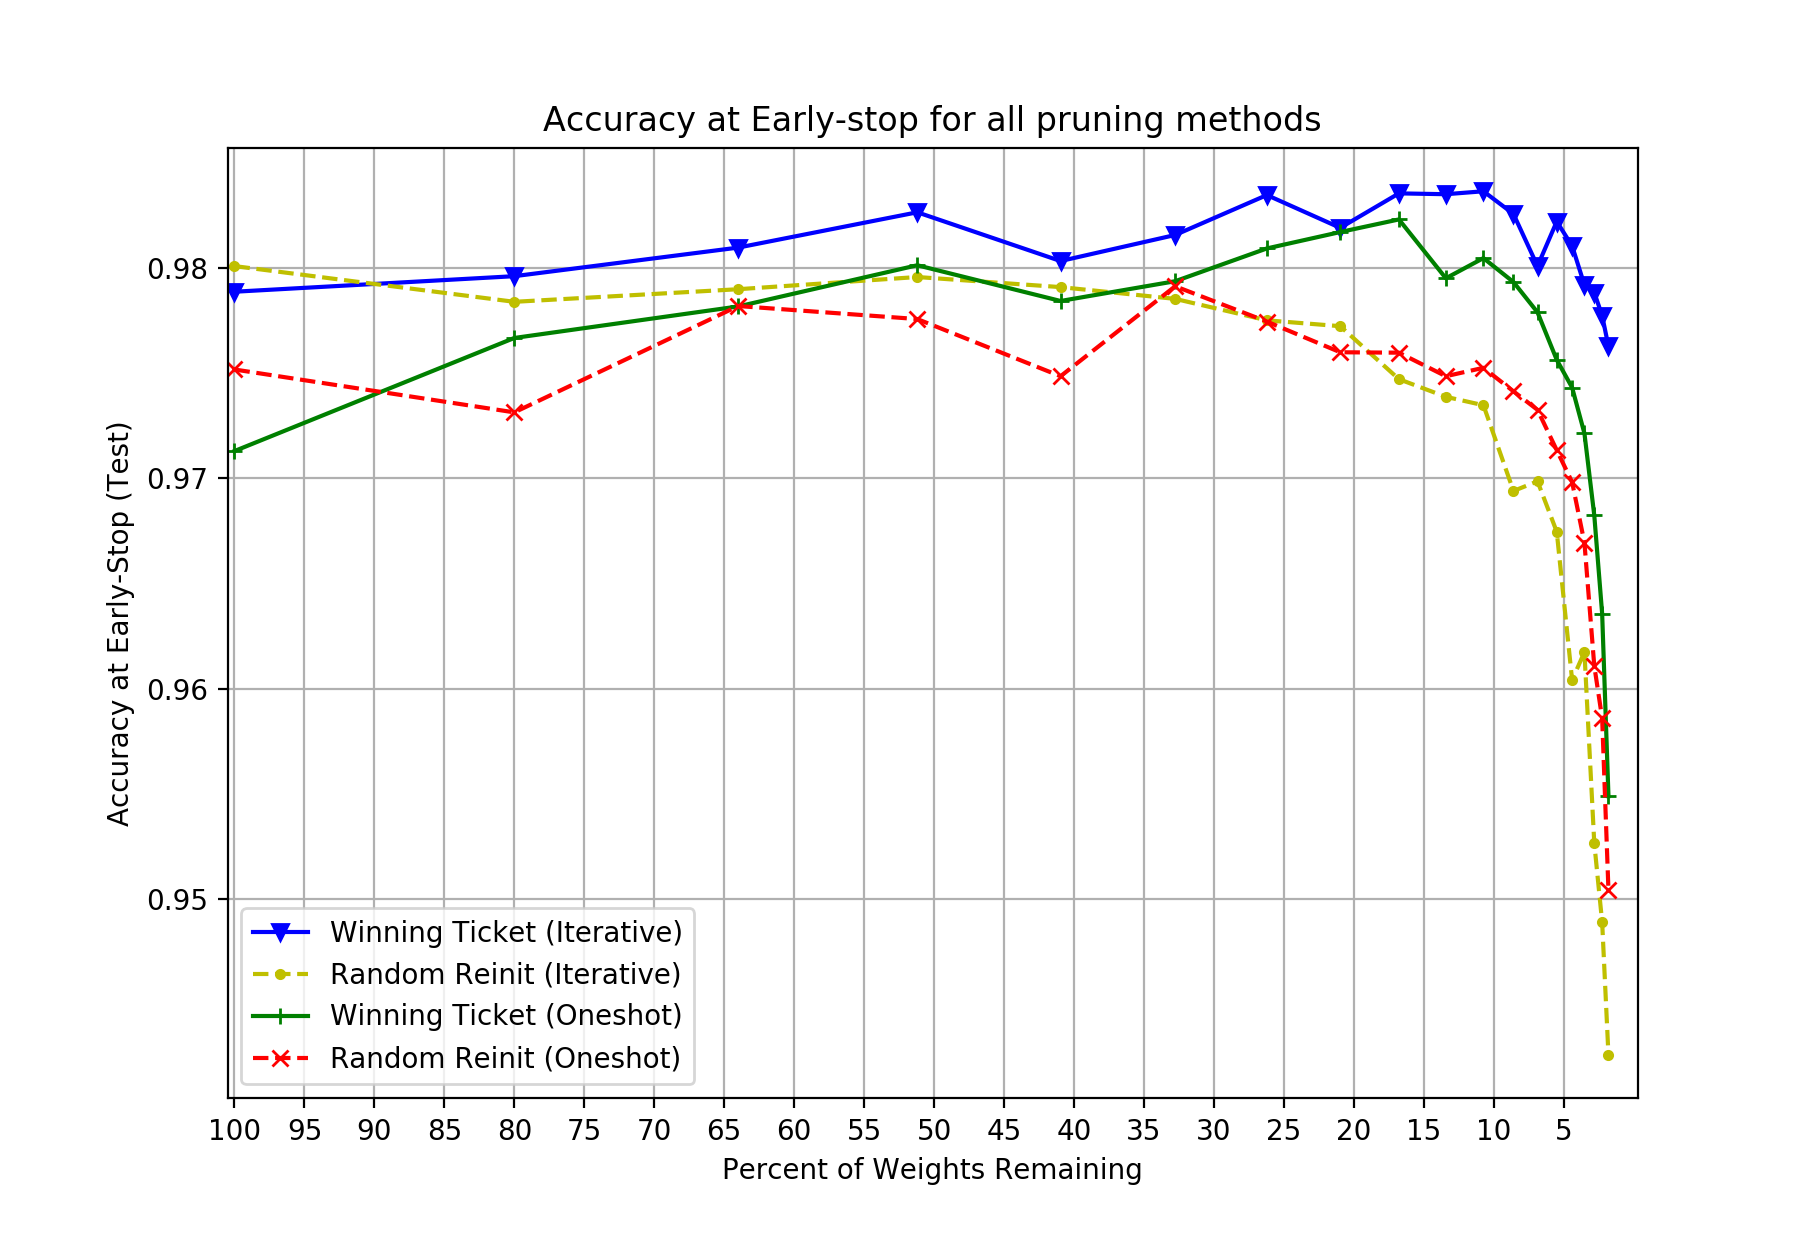
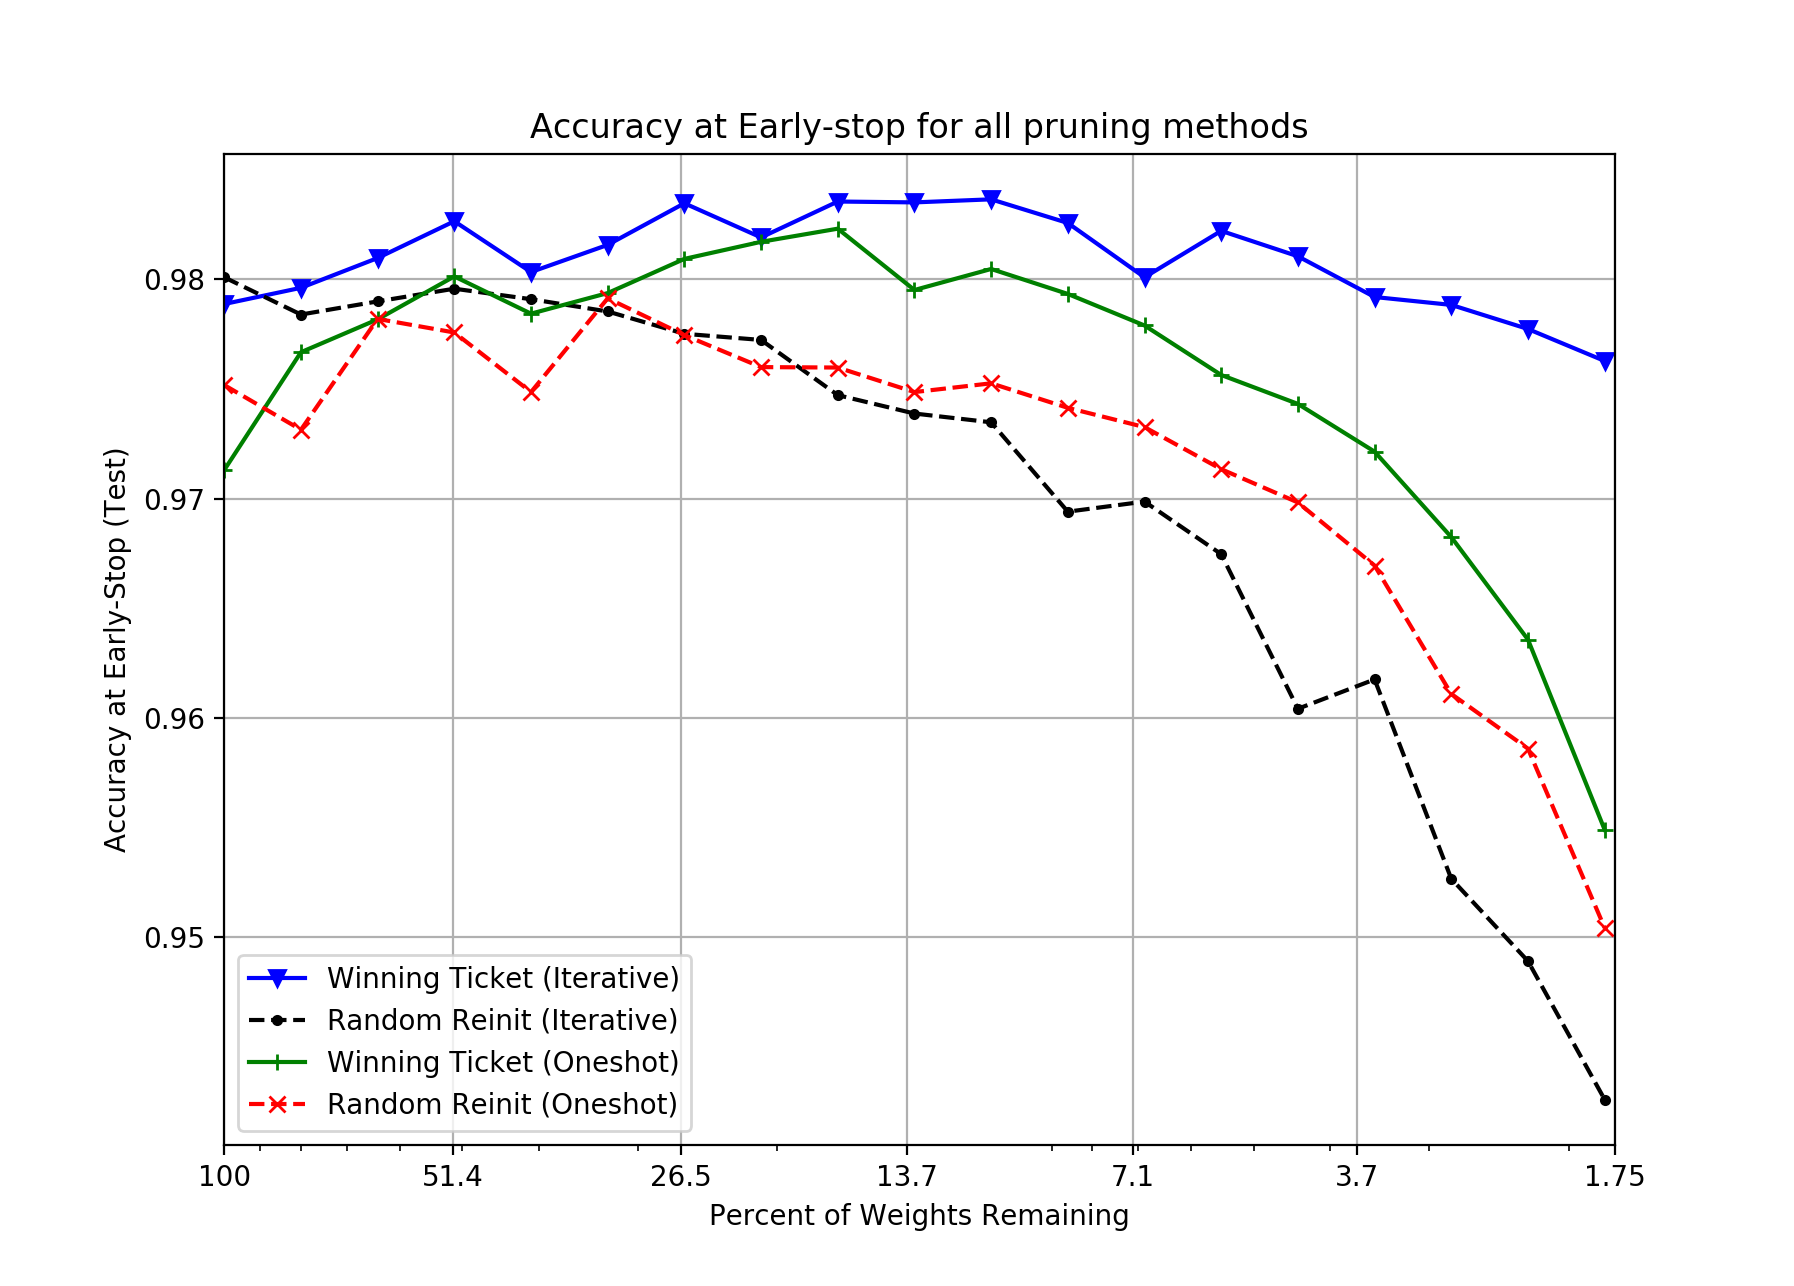
fixed x-axis on all plots

diff --git a/src/fc_mnist/plots.py b/src/fc_mnist/plots.py
@@ -94,33 +94,35 @@ def plot_figure4a_replica():
 
     # Plots Early-Stop iteration (Figure 4ai)
     plt.plot(percentages_list, hist_iter_epochs, label="Winning Ticket (Iterative)", color='b', marker='v')
-    plt.plot(percentages_list, hist_iter_reinit_epochs, label="Random Reinit (Iterative)", color='y', marker='.', linestyle='--')
+    plt.plot(percentages_list, hist_iter_reinit_epochs, label="Random Reinit (Iterative)", color='k', marker='.', linestyle='--')
     plt.plot(percentages_list, hist_os_epochs, label="Winning Ticket (Oneshot)", color='g', marker='+')
     plt.plot(percentages_list, hist_os_reinit_epochs, label="Random Reinit (Oneshot)", color='r', marker='x', linestyle='--')
     
     plt.legend()
-    plt.grid()
     plt.title("Early stopping iteration for all pruning methods")
     plt.xlabel("Percent of Weights Remaining")
     plt.ylabel("Early-Stop Epoch (Val.)")
 
-    plt.xticks(np.arange(100, 0, -5))
-    plt.xlim(100.5, -0.31)
+    plt.xlim(left=100.5, right=1.5)
+    plt.xscale('log')
+    plt.grid()
+    plt.xticks([100, 51.4, 26.5, 13.7, 7.1, 3.7, 1.75], [100, 51.4, 26.5, 13.7, 7.1, 3.7, 1.75])
     plt.show()
     # Plots accuracy at early-stop (Figure 4aii)
     plt.plot(percentages_list, hist_iter, label="Winning Ticket (Iterative)", color='b', marker='v')
-    plt.plot(percentages_list, hist_iter_reinit, label="Random Reinit (Iterative)", color='y', marker='.', linestyle='--')
+    plt.plot(percentages_list, hist_iter_reinit, label="Random Reinit (Iterative)", color='k', marker='.', linestyle='--')
     plt.plot(percentages_list, hist_os, label="Winning Ticket (Oneshot)", color='g', marker='+')
     plt.plot(percentages_list, hist_os_reinit, label="Random Reinit (Oneshot)", color='r', marker='x', linestyle='--')
 
     plt.legend()
-    plt.grid()
     plt.title("Accuracy at Early-stop for all pruning methods")
     plt.xlabel("Percent of Weights Remaining")
     plt.ylabel("Accuracy at Early-Stop (Test)")
 
-    plt.xticks(np.arange(100, 0, -5))
-    plt.xlim(100.5, -0.31)
+    plt.xlim(left=100.5, right=1.5)
+    plt.xscale('log')
+    plt.grid()
+    plt.xticks([100, 51.4, 26.5, 13.7, 7.1, 3.7, 1.75], [100, 51.4, 26.5, 13.7, 7.1, 3.7, 1.75])
     plt.show()
 
 def plot_figure4b_replica():
@@ -140,18 +142,19 @@ def plot_figure4b_replica():
         percentages_list.append(percentages[i][1]*100)
     
     plt.plot(percentages_list, hist_iter, label="Winning Ticket (Iterative)", color='b', marker='v')
-    plt.plot(percentages_list, hist_iter_reinit, label="Random Reinit (Iterative)", color='y', marker='.', linestyle='--')
+    plt.plot(percentages_list, hist_iter_reinit, label="Random Reinit (Iterative)", color='k', marker='.', linestyle='--')
     plt.plot(percentages_list, hist_os, label="Winning Ticket (Oneshot)", color='g', marker='+')
     plt.plot(percentages_list, hist_os_reinit, label="Random Reinit (Oneshot)", color='r', marker='x', linestyle='--')
     
     plt.legend()
-    plt.grid()
     plt.title("Accuracy at the end of training for different pruning methods")
     plt.xlabel("Percent of Weights Remaining")
     plt.ylabel("Accuracy at Iteration 20K (Test)")
 
-    plt.xticks(np.arange(100, 0, -5))
-    plt.xlim(100.5, -0.31)
+    plt.xlim(left=100.5, right=1.5)
+    plt.xscale('log')
+    plt.grid()
+    plt.xticks([100, 51.4, 26.5, 13.7, 7.1, 3.7, 1.75], [100, 51.4, 26.5, 13.7, 7.1, 3.7, 1.75])
     plt.show()
 
 def plot_figure4c_replica():
@@ -173,13 +176,14 @@ def plot_figure4c_replica():
     plt.plot(percentages_list, hist_os_reinit_epochs, label="Random Reinit (Oneshot)", color='r', marker='x', linestyle='--')
     
     plt.legend()
-    plt.grid()
     plt.title("Early stopping iteration for oneshot pruning")
     plt.xlabel("Percent of Weights Remaining")
     plt.ylabel("Early-Stop Epoch (Val.)")
 
-    plt.xticks(np.arange(100, 0, -5))
-    plt.xlim(100.5, -0.31)
+    plt.xlim(left=100.5, right=1.5)
+    plt.xscale('log')
+    plt.grid()
+    plt.xticks([100, 51.4, 26.5, 13.7, 7.1, 3.7, 1.75], [100, 51.4, 26.5, 13.7, 7.1, 3.7, 1.75])
     plt.show()
 
     # Plots accuracy at early-stop (Figure 4cii)
@@ -188,11 +192,14 @@ def plot_figure4c_replica():
     plt.plot(percentages_list, hist_os_reinit, label="Random Reinit (Oneshot)", color='r', marker='x', linestyle='--')
 
     plt.legend()
-    plt.grid()
     plt.title("Accuracy at Early-stop for oneshot pruning")
     plt.xlabel("Percent of Weights Remaining")
     plt.ylabel("Accuracy at Early-Stop (Test)")
 
-    plt.xticks(np.arange(100, 0, -5))
-    plt.xlim(100.5, -0.31)
+    plt.xlim(left=100.5, right=1.5)
+    plt.xscale('log')
+    plt.grid()
+    plt.xticks([100, 51.4, 26.5, 13.7, 7.1, 3.7, 1.75], [100, 51.4, 26.5, 13.7, 7.1, 3.7, 1.75])
     plt.show()
+
+plot_figure4c_replica()
